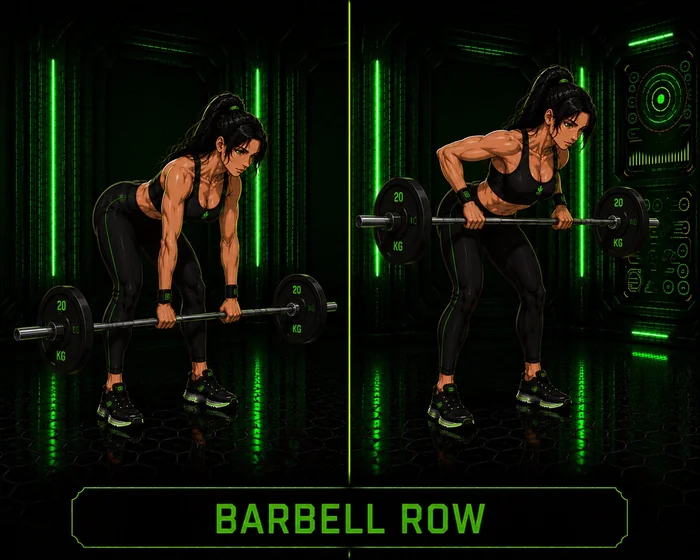
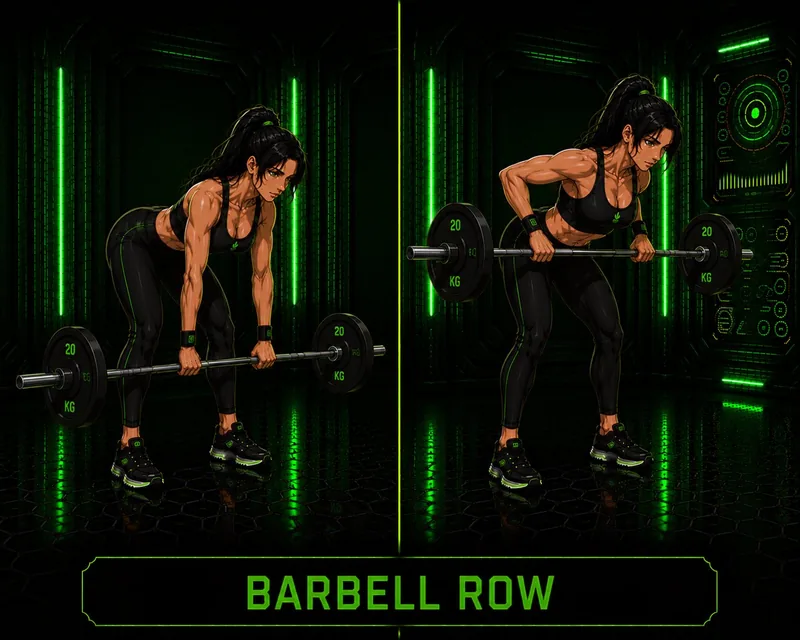
Add files via upload

Changed region(s): [[0.9, 0.2732, 0.99, 0.3036]]

diff --git a/js/app.js b/js/app.js
@@ -9967,6 +9967,7 @@ showConfirm('⚠️ RÉINITIALISATION TOTALE — Supprimer TOUTES les données d
             try {
                 clearInterval(timerInterval);
                 clearInterval(cardioInterval);
+                if (typeof stopSessionTimer === 'function') stopSessionTimer();
                 if (typeof setRestInterval !== 'undefined' && setRestInterval) {
                     clearInterval(setRestInterval); setRestInterval = null;
                 }
@@ -19324,6 +19325,25 @@ showConfirm('⚠️ RÉINITIALISATION TOTALE — Supprimer TOUTES les données d
                 if (repsTrackingDiv) {
                     repsTrackingDiv.style.display = 'block';
 
+                    // 🏋️ En Faille/Chasse : masquer le champ poids (poids du corps uniquement)
+                    const weightCard = document.getElementById('quickWeightCard');
+                    if (weightCard) {
+                        const isRiftOrHunt = currentWorkout && (currentWorkout._isRift || currentWorkout._isHunt);
+                        if (isRiftOrHunt) {
+                            weightCard.style.display = 'none';
+                            // Forcer le poids à 0
+                            const wi = document.getElementById('quickWeightInput');
+                            if (wi) wi.value = '0';
+                            // La card reps prend toute la largeur
+                            const grid = weightCard.parentElement;
+                            if (grid) grid.style.gridTemplateColumns = '1fr';
+                        } else {
+                            weightCard.style.display = '';
+                            const grid = weightCard.parentElement;
+                            if (grid) grid.style.gridTemplateColumns = '1fr 1fr';
+                        }
+                    }
+
                     // Init sets tracker for gym mode
                     initSetsTracker(exercise);
 
@@ -20626,6 +20646,7 @@ showConfirm('⚠️ RÉINITIALISATION TOTALE — Supprimer TOUTES les données d
             if (window.speechSynthesis) window.speechSynthesis.cancel();
             clearInterval(timerInterval);
             clearInterval(cardioInterval);
+            if (typeof stopSessionTimer === 'function') stopSessionTimer();
             clearInterval(setRestInterval); setRestInterval = null;
             hideGlobalRestBanner();
             hideRestOverlay();
@@ -22422,11 +22443,13 @@ showConfirm('⚠️ RÉINITIALISATION TOTALE — Supprimer TOUTES les données d
             { id: 'SSS', name: 'Rang SSS', threshold: 200, color: '#fbbf24', emoji: '✦SSS✦', desc: 'Au-delà des limites' }
         ];
 
-        // Helper : récupère le niveau actuel du joueur
+        // Helper : récupère le niveau actuel du joueur (même calcul que la carte profil)
         function _awakGetCurrentLevel() {
             try {
-                const rpg = (typeof rpgLoad === 'function') ? rpgLoad() : null;
-                const lifetimeXP = (rpg && rpg.profile && rpg.profile.lifetimeXP) || (rpg && rpg.profile && rpg.profile.xp) || 0;
+                const data = (typeof rpgLoad === 'function') ? rpgLoad() : null;
+                if (!data || !data.muscles) return 1;
+                const profileXP = Object.values(data.muscles).reduce((s, m) => s + (m.xp || 0), 0);
+                const lifetimeXP = profileXP + parseInt(localStorage.getItem('fitproRPGLifetimeXP') || '0');
                 return (typeof rpgLevelFromXP === 'function') ? rpgLevelFromXP(lifetimeXP) : 1;
             } catch(e) { return 1; }
         }
@@ -23508,12 +23531,21 @@ showConfirm('⚠️ RÉINITIALISATION TOTALE — Supprimer TOUTES les données d
             if (!theme || !theme.exerciseFilter) return [];
             const playerStats = awakGetTotalStats();
 
-            // Tous les exos qui matchent le thème
+            // Tous les exos qui matchent le thème — MAIS poids du corps uniquement
             const pool = (typeof exerciseDatabase !== 'undefined' ? exerciseDatabase : [])
+                .filter(ex => theme.exerciseFilter(ex))
+                .filter(ex => {
+                    // 🏋️ Failles = poids du corps uniquement (pas de triche au poids + thématique)
+                    const eq = ex.equipment || [];
+                    return eq.length === 0 || eq.includes('Poids du corps') || eq.includes('Aucun');
+                });
+
+            // Si le filtre poids du corps vide le pool, fallback sur tout le thème
+            const finalPool = pool.length >= 2 ? pool : (typeof exerciseDatabase !== 'undefined' ? exerciseDatabase : [])
                 .filter(ex => theme.exerciseFilter(ex));
 
             // Mélanger
-            const shuffled = pool.sort(() => Math.random() - 0.5).slice(0, count);
+            const shuffled = finalPool.sort(() => Math.random() - 0.5).slice(0, count);
 
             // Calculer le dégât estimé par série
             return shuffled.map(ex => {
@@ -23685,6 +23717,12 @@ showConfirm('⚠️ RÉINITIALISATION TOTALE — Supprimer TOUTES les données d
             const theme = session.theme;
             const playerStats = awakGetTotalStats();
 
+            // 🛡️ ANTI-TRICHE : plafonner les reps et le poids
+            // Reps max réaliste = 50 (au-delà c'est de la triche)
+            // Poids ignoré en Faille (poids du corps uniquement)
+            const cappedReps = Math.min(Math.max(1, reps || 1), 50);
+            const cappedWeight = 0; // Failles = poids du corps, le poids ne compte pas
+
             // 🎯 Calculer tous les bonus stats actifs
             const bonuses = awakComputeStatBonuses(playerStats, currentWave.isBoss);
 
@@ -23696,14 +23734,18 @@ showConfirm('⚠️ RÉINITIALISATION TOTALE — Supprimer TOUTES les données d
             const consumEffects = typeof awakConsumablesGetActiveEffects === 'function'
                 ? awakConsumablesGetActiveEffects() : {};
 
-            // Formule de dégâts : base + reps × (1 + stat thématique/100) — la stat principale du thème reste boost
+            // Formule de dégâts : base + reps × (1 + stat thématique/100)
             const base = 15;
             const primaryStatValue = (playerStats[theme.primaryStat] || 0) * (1 + (consumEffects[theme.primaryStat] || 0));
             const statMult = 1 + primaryStatValue / 100;
-            const baseDamage = base + (reps || 1) * statMult * 2;
-            const weightBonus = weightKg > 0 ? Math.floor(weightKg / 10) : 0;
+            const baseDamage = base + cappedReps * statMult * 2;
+            const weightBonus = 0; // pas de bonus poids en Faille
 
             let finalDamage = baseDamage + weightBonus;
+
+            // 🛡️ Plafond absolu de dégâts par série (anti-triche ultime)
+            // Empêche de tuer un monstre en 1 série, même avec crit + double + tous les bonus
+            const maxDamagePerHit = Math.max(40, Math.round(currentWave.hpMax * 0.45));
 
             // ⚔️ STR : multiplicateur dégâts global (toujours actif)
             finalDamage *= bonuses.damageMult;
@@ -23751,6 +23793,10 @@ showConfirm('⚠️ RÉINITIALISATION TOTALE — Supprimer TOUTES les données d
             } catch(e) {}
 
             finalDamage = Math.max(1, Math.round(finalDamage));
+
+            // 🛡️ Appliquer le plafond anti-triche (max 45% des HP max du monstre par série)
+            const wasCapped = finalDamage > maxDamagePerHit;
+            finalDamage = Math.min(finalDamage, maxDamagePerHit);
 
             // 🔥 Afficher les procs spéciaux après les dégâts
             const procToasts = [];
@@ -24490,18 +24536,42 @@ showConfirm('⚠️ RÉINITIALISATION TOTALE — Supprimer TOUTES les données d
             const monster = session.monster;
 
             const playerStats = awakGetTotalStats();
-            const totalStat = Object.values(playerStats).reduce((s, v) => s + v, 0);
+
+            // 🎯 Utiliser le système de bonus stats unifié (comme les Failles)
+            const bonuses = (typeof awakComputeStatBonuses === 'function')
+                ? awakComputeStatBonuses(playerStats, false) : null;
 
             const base = 8;
-            const damage = base + (reps || 1) * (1 + totalStat / 200) + Math.floor((weightKg || 0) / 10);
-            const critChance = 0.08 + (playerStats.PER || 0) / 800;
+            let damage = base + (reps || 1) * 2 + Math.floor((weightKg || 0) / 10);
+
+            // ⚔️ STR : multiplicateur dégâts
+            if (bonuses) damage *= bonuses.damageMult;
+
+            // ⚡ AGI : chance critique
+            const critChance = bonuses ? (0.05 + bonuses.critChance) : 0.08;
             const isCrit = Math.random() < critChance;
-            const finalDamage = Math.round(damage * (isCrit ? 2 : 1));
+            if (isCrit) damage *= 2;
+
+            // 💨 VIT : double attaque
+            let isDouble = false;
+            if (bonuses && Math.random() < bonuses.doubleChance) {
+                isDouble = true;
+                damage += damage * 0.5;
+            }
+
+            const finalDamage = Math.max(1, Math.round(damage));
 
             monster.hpCurrent = Math.max(0, monster.hpCurrent - finalDamage);
             session.totalDamage += finalDamage;
 
-            return { damage: finalDamage, isCrit, killed: monster.hpCurrent <= 0 };
+            // Procs visibles
+            if (isDouble) {
+                setTimeout(() => {
+                    if (typeof showToast === 'function') showToast('⚡ DOUBLE ATTAQUE !', 'success', 1600);
+                }, 700);
+            }
+
+            return { damage: finalDamage, isCrit, isDouble, killed: monster.hpCurrent <= 0 };
         }
         window.awakDealDamageToMonster = awakDealDamageToMonster;
 
@@ -24519,10 +24589,15 @@ showConfirm('⚠️ RÉINITIALISATION TOTALE — Supprimer TOUTES les données d
                 awakMonstersSave(monsters);
             }
 
-            // Récompenses : XP bonus + bonus Alpha
+            // Récompenses : XP bonus + bonus Alpha + bonus SEN
             const rankXP = { E: 100, D: 200, C: 350, B: 500, A: 750, S: 1000 }[monster.fromRiftRank] || 200;
             const alphaBonus = monster.isAlpha ? 2 : 1;
-            const xpReward = rankXP * alphaBonus;
+            let xpReward = rankXP * alphaBonus;
+            // 🌀 SEN : bonus XP
+            try {
+                const b = (typeof awakComputeStatBonuses === 'function') ? awakComputeStatBonuses() : null;
+                if (b) xpReward = Math.round(xpReward * b.xpMult);
+            } catch(e) {}
 
             document.getElementById('awakHuntCombatModal')?.remove();
             const modal = document.createElement('div');
@@ -27483,9 +27558,18 @@ showConfirm('⚠️ RÉINITIALISATION TOTALE — Supprimer TOUTES les données d
                                                         streak >= 3 ? 'Belle régularité !' : 'Continuez comme ça !';
             }
 
-            document.getElementById('exerciseView').classList.add('hidden'); document.body.classList.remove('in-session');
+            const _exViewEnd = document.getElementById('exerciseView');
+            if (_exViewEnd) {
+                _exViewEnd.style.removeProperty('display'); // enlève le display inline résiduel
+                _exViewEnd.classList.add('hidden');         // .hidden !important fait le reste
+            }
+            document.body.classList.remove('in-session');
             document.body.classList.remove('session-fullscreen'); _sessionFullscreen = false;
-            document.getElementById('completionView').classList.remove('hidden');
+            const _cvEnd = document.getElementById('completionView');
+            if (_cvEnd) {
+                _cvEnd.style.removeProperty('display');
+                _cvEnd.classList.remove('hidden');
+            }
             window.scrollTo({ top: 0, behavior: 'smooth' });
             hideGlobalRestBanner();
             // 📊 Bilan enrichi

diff --git a/index.html b/index.html
@@ -19,7 +19,7 @@
     <link href="https://cdn.jsdelivr.net/npm/@tabler/icons-webfont@3.19.0/tabler-icons.min.css" rel="stylesheet">
 
     <!-- App styles -->
-    <link rel="stylesheet" href="css/style.css?v=72">
+    <link rel="stylesheet" href="css/style.css?v=76">
 </head>
 <body>
 
@@ -176,7 +176,7 @@
                 max-width: 900px;">
 
             <!-- Bannière image : ratio préservé -->
-            <img src="images/banner.png?v=72"
+            <img src="images/banner.png?v=76"
                  alt="Awakened Elite Fitness"
                  style="width:100%;height:auto;display:block;" />
 
@@ -1444,7 +1444,7 @@
                                         </div>
                                     </div>
                                     <!-- POIDS - GROS CHIFFRES -->
-                                    <div style="background:linear-gradient(180deg,#020510,#0a0e18);padding:14px 10px;border-radius:10px;border:1px solid rgba(74,222,128,0.3);position:relative;overflow:hidden;">
+                                    <div id="quickWeightCard" style="background:linear-gradient(180deg,#020510,#0a0e18);padding:14px 10px;border-radius:10px;border:1px solid rgba(74,222,128,0.3);position:relative;overflow:hidden;">
                                         <div style="position:absolute;top:0;left:0;right:0;height:1px;background:linear-gradient(90deg,transparent,#4ade80,transparent);opacity:0.5;"></div>
                                         <label style="display:block;font-size:0.6em;font-weight:900;margin-bottom:8px;color:#4ade80;text-transform:uppercase;letter-spacing:2.5px;text-align:center;text-shadow:0 0 6px rgba(74,222,128,0.4);"><span data-weight-unit>CHARGE (KG)</span></label>
                                         <div style="display:flex;align-items:center;gap:6px;">
@@ -2148,7 +2148,7 @@
             <!-- 🔖 Version -->
             <div class="card" style="background:linear-gradient(160deg,#0a0e18,#0F1014);border:1px solid rgba(34,197,94,0.15);padding:12px 14px;text-align:center;">
                 <div style="font-size:0.6em;color:#64748b;font-weight:800;letter-spacing:2px;">VERSION</div>
-                <div style="font-size:0.95em;color:#4ade80;font-weight:900;margin-top:3px;letter-spacing:1px;">v72 · awakened</div>
+                <div style="font-size:0.95em;color:#4ade80;font-weight:900;margin-top:3px;letter-spacing:1px;">v76 · awakened</div>
                 <button onclick="if(confirm('Forcer la mise à jour de l\\'app ?\\n\\nCela rechargera la page et nettoiera le cache.')) { if('serviceWorker' in navigator) navigator.serviceWorker.getRegistrations().then(rs => Promise.all(rs.map(r => r.unregister()))).then(() => location.reload(true)); }" style="margin-top:10px;background:rgba(34,197,94,0.1);border:1px solid rgba(34,197,94,0.3);color:#4ade80;border-radius:9px;padding:8px 14px;font-size:0.75em;font-weight:800;cursor:pointer;">🔄 Forcer la mise à jour</button>
             </div>
 
@@ -3475,12 +3475,12 @@
     <script src="https://cdn.jsdelivr.net/npm/chart.js@4.4.0/dist/chart.umd.min.js"></script>
 
     <!-- App scripts — order matters -->
-    <script src="js/exercises.js?v=72"></script>
-    <script src="data/items.js?v=72"></script>
-    <script src="js/adventure.js?v=72"></script>
-    <script src="js/challenges.js?v=72"></script>
-    <script src="js/exercise-visuals.js?v=72"></script>
-    <script src="js/app.js?v=72"></script>
+    <script src="js/exercises.js?v=76"></script>
+    <script src="data/items.js?v=76"></script>
+    <script src="js/adventure.js?v=76"></script>
+    <script src="js/challenges.js?v=76"></script>
+    <script src="js/exercise-visuals.js?v=76"></script>
+    <script src="js/app.js?v=76"></script>
 
     <!-- Adventure + Challenge hook -->
     <script>

diff --git a/js/exercise-visuals.js b/js/exercise-visuals.js
@@ -739,6 +739,15 @@ var EXERCISE_IMAGES = {
   'Burpees':                       'images/exercises/Burpees.webp',
   'Burpees légers':                'images/exercises/Burpees_légers.webp',
   'Cable Crossover':               'images/exercises/Cable_Crossover.webp',
+  'Cable Crunch':                  'images/exercises/Cable_Crunch.webp',
+  'Cable Crunch à genoux':         'images/exercises/Cable_Crunch_a_genoux.webp',
+  'Cable Fly':                     'images/exercises/Cable_Fly.webp',
+  'Cable Fly bas vers haut':       'images/exercises/Cable_Fly_bas_vers_haut.webp',
+  'Cable Fly haut vers bas':       'images/exercises/Cable_Fly_haut_vers_bas.webp',
+  'Cable Front Raise':             'images/exercises/Cable_Front_Raise.webp',
+  'Cable Hammer Curl':             'images/exercises/Cable_Hammer_Curl.webp',
+  'Cable Kickbacks':               'images/exercises/Cable_Kickbacks.webp',
+  'Cable Pull Through':            'images/exercises/Cable_Pull_Through.webp',
 };
 
 function hasExerciseImage(name) {

diff --git a/css/style.css b/css/style.css
@@ -615,7 +615,7 @@
         }
 
         .hidden {
-            display: none;
+            display: none !important;
         }
 
         /* Exercise Search Results */

diff --git a/sw.js b/sw.js
@@ -2,7 +2,7 @@
 // Enables full offline support and PWA installation
 // Strategy: network-first for code files (HTML/JS/CSS), cache-first for assets (images/fonts)
 
-const CACHE_NAME = 'awakened-v72';
+const CACHE_NAME = 'awakened-v76';
 const ASSETS = [
   '/',
   '/index.html',